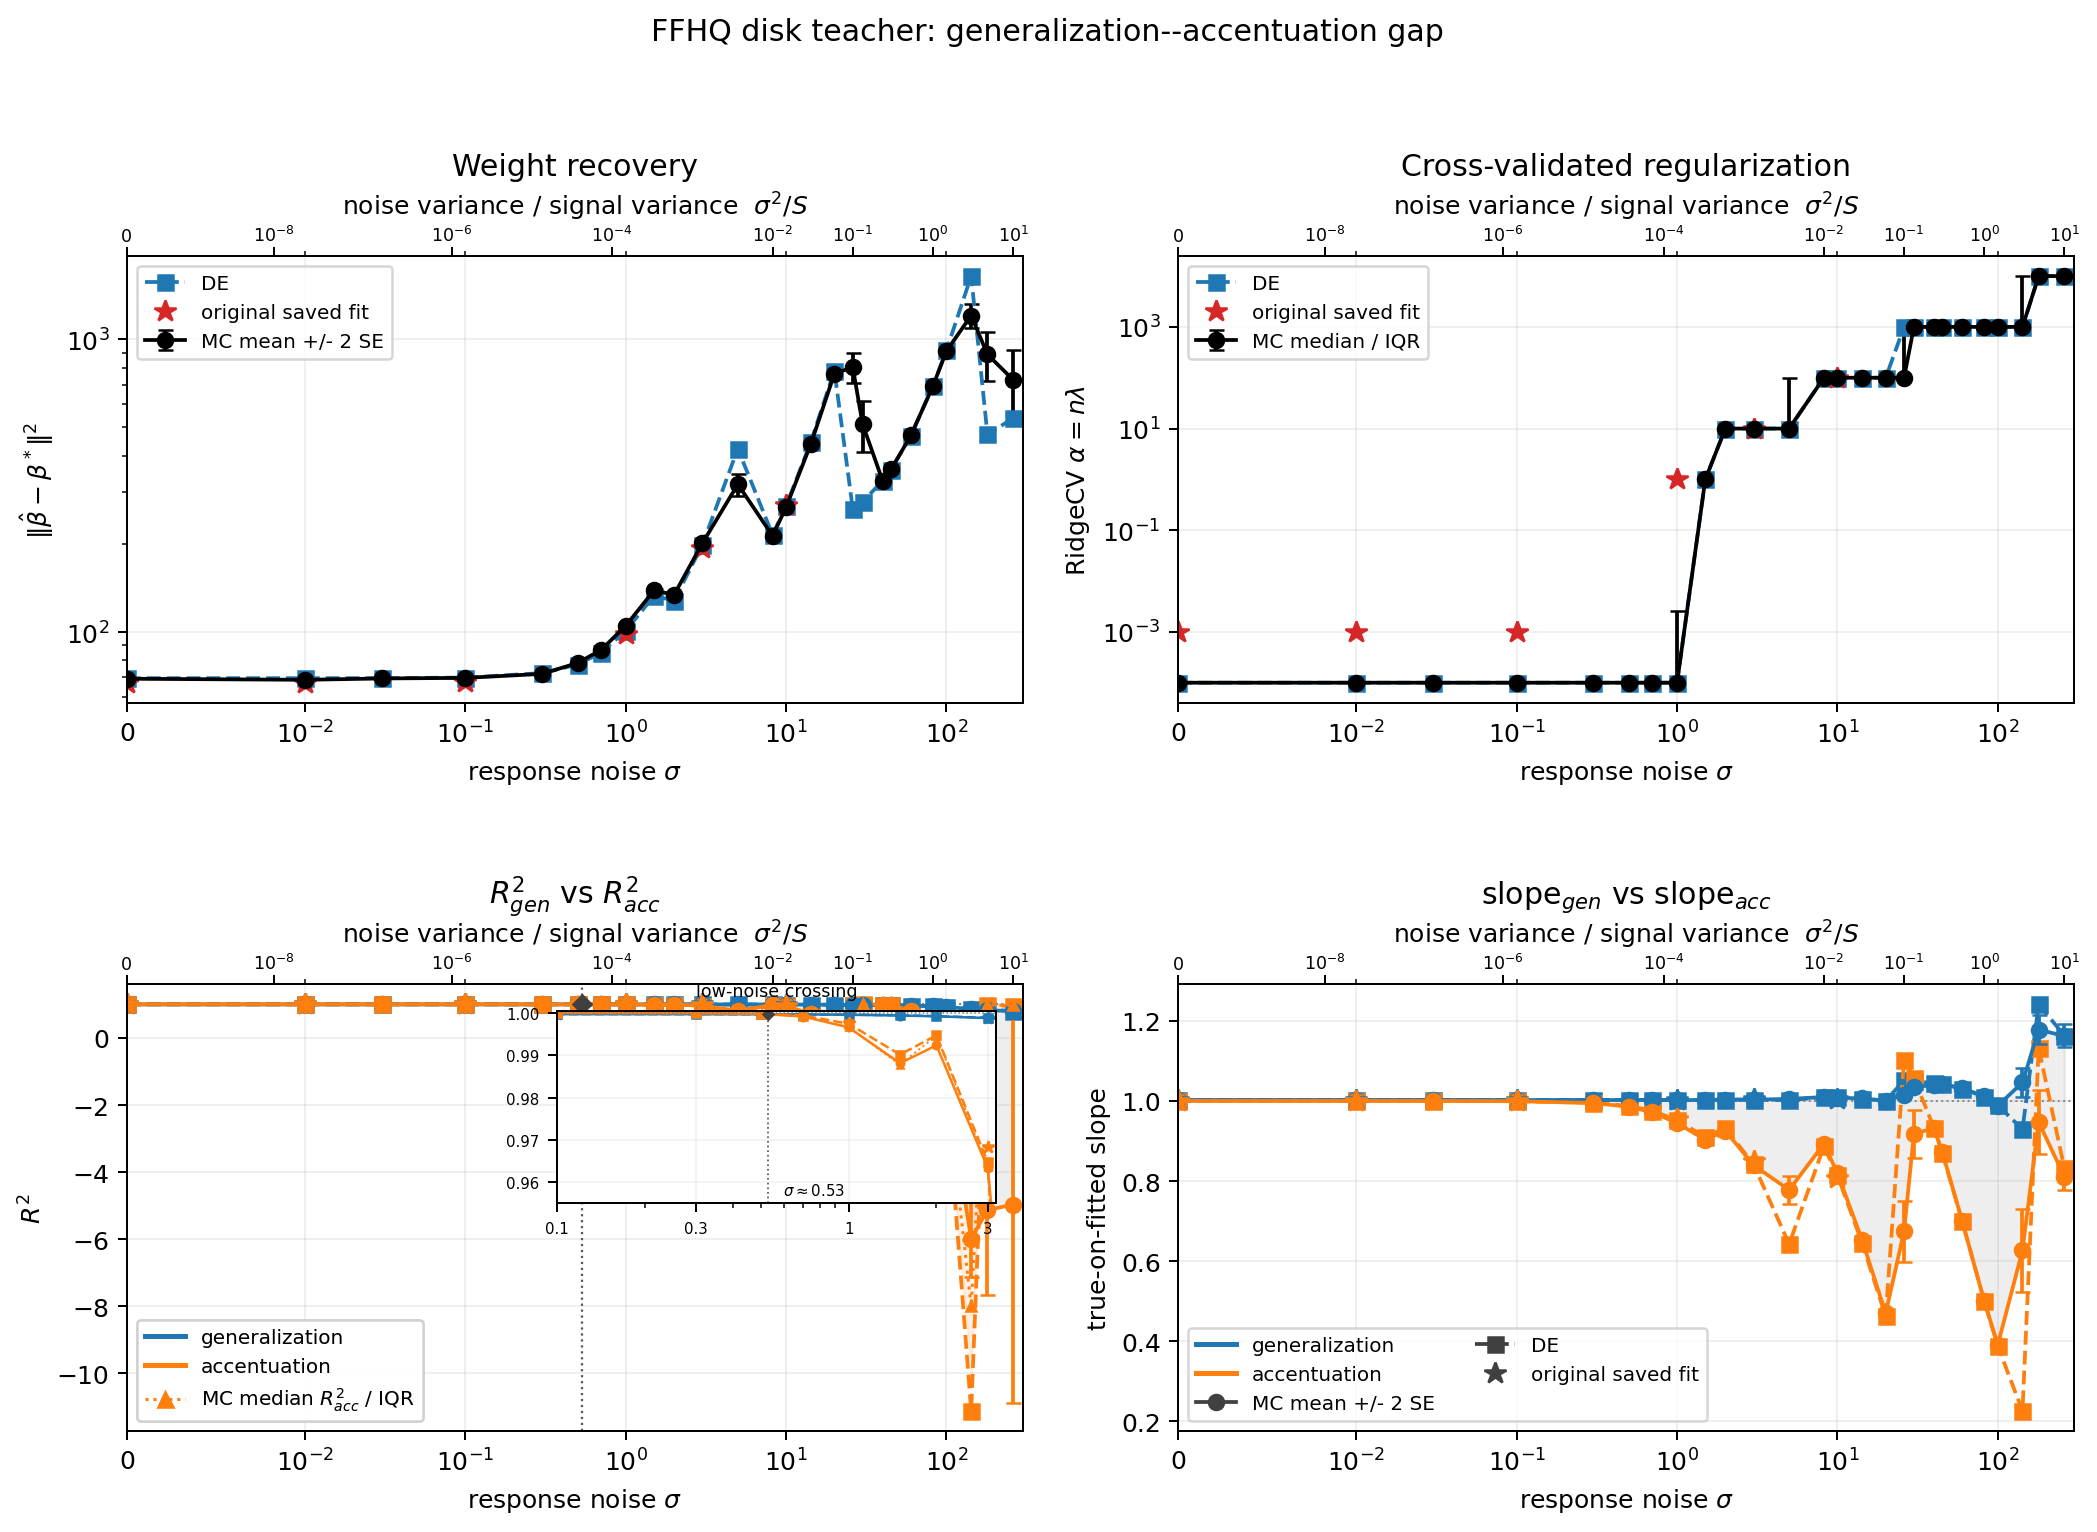
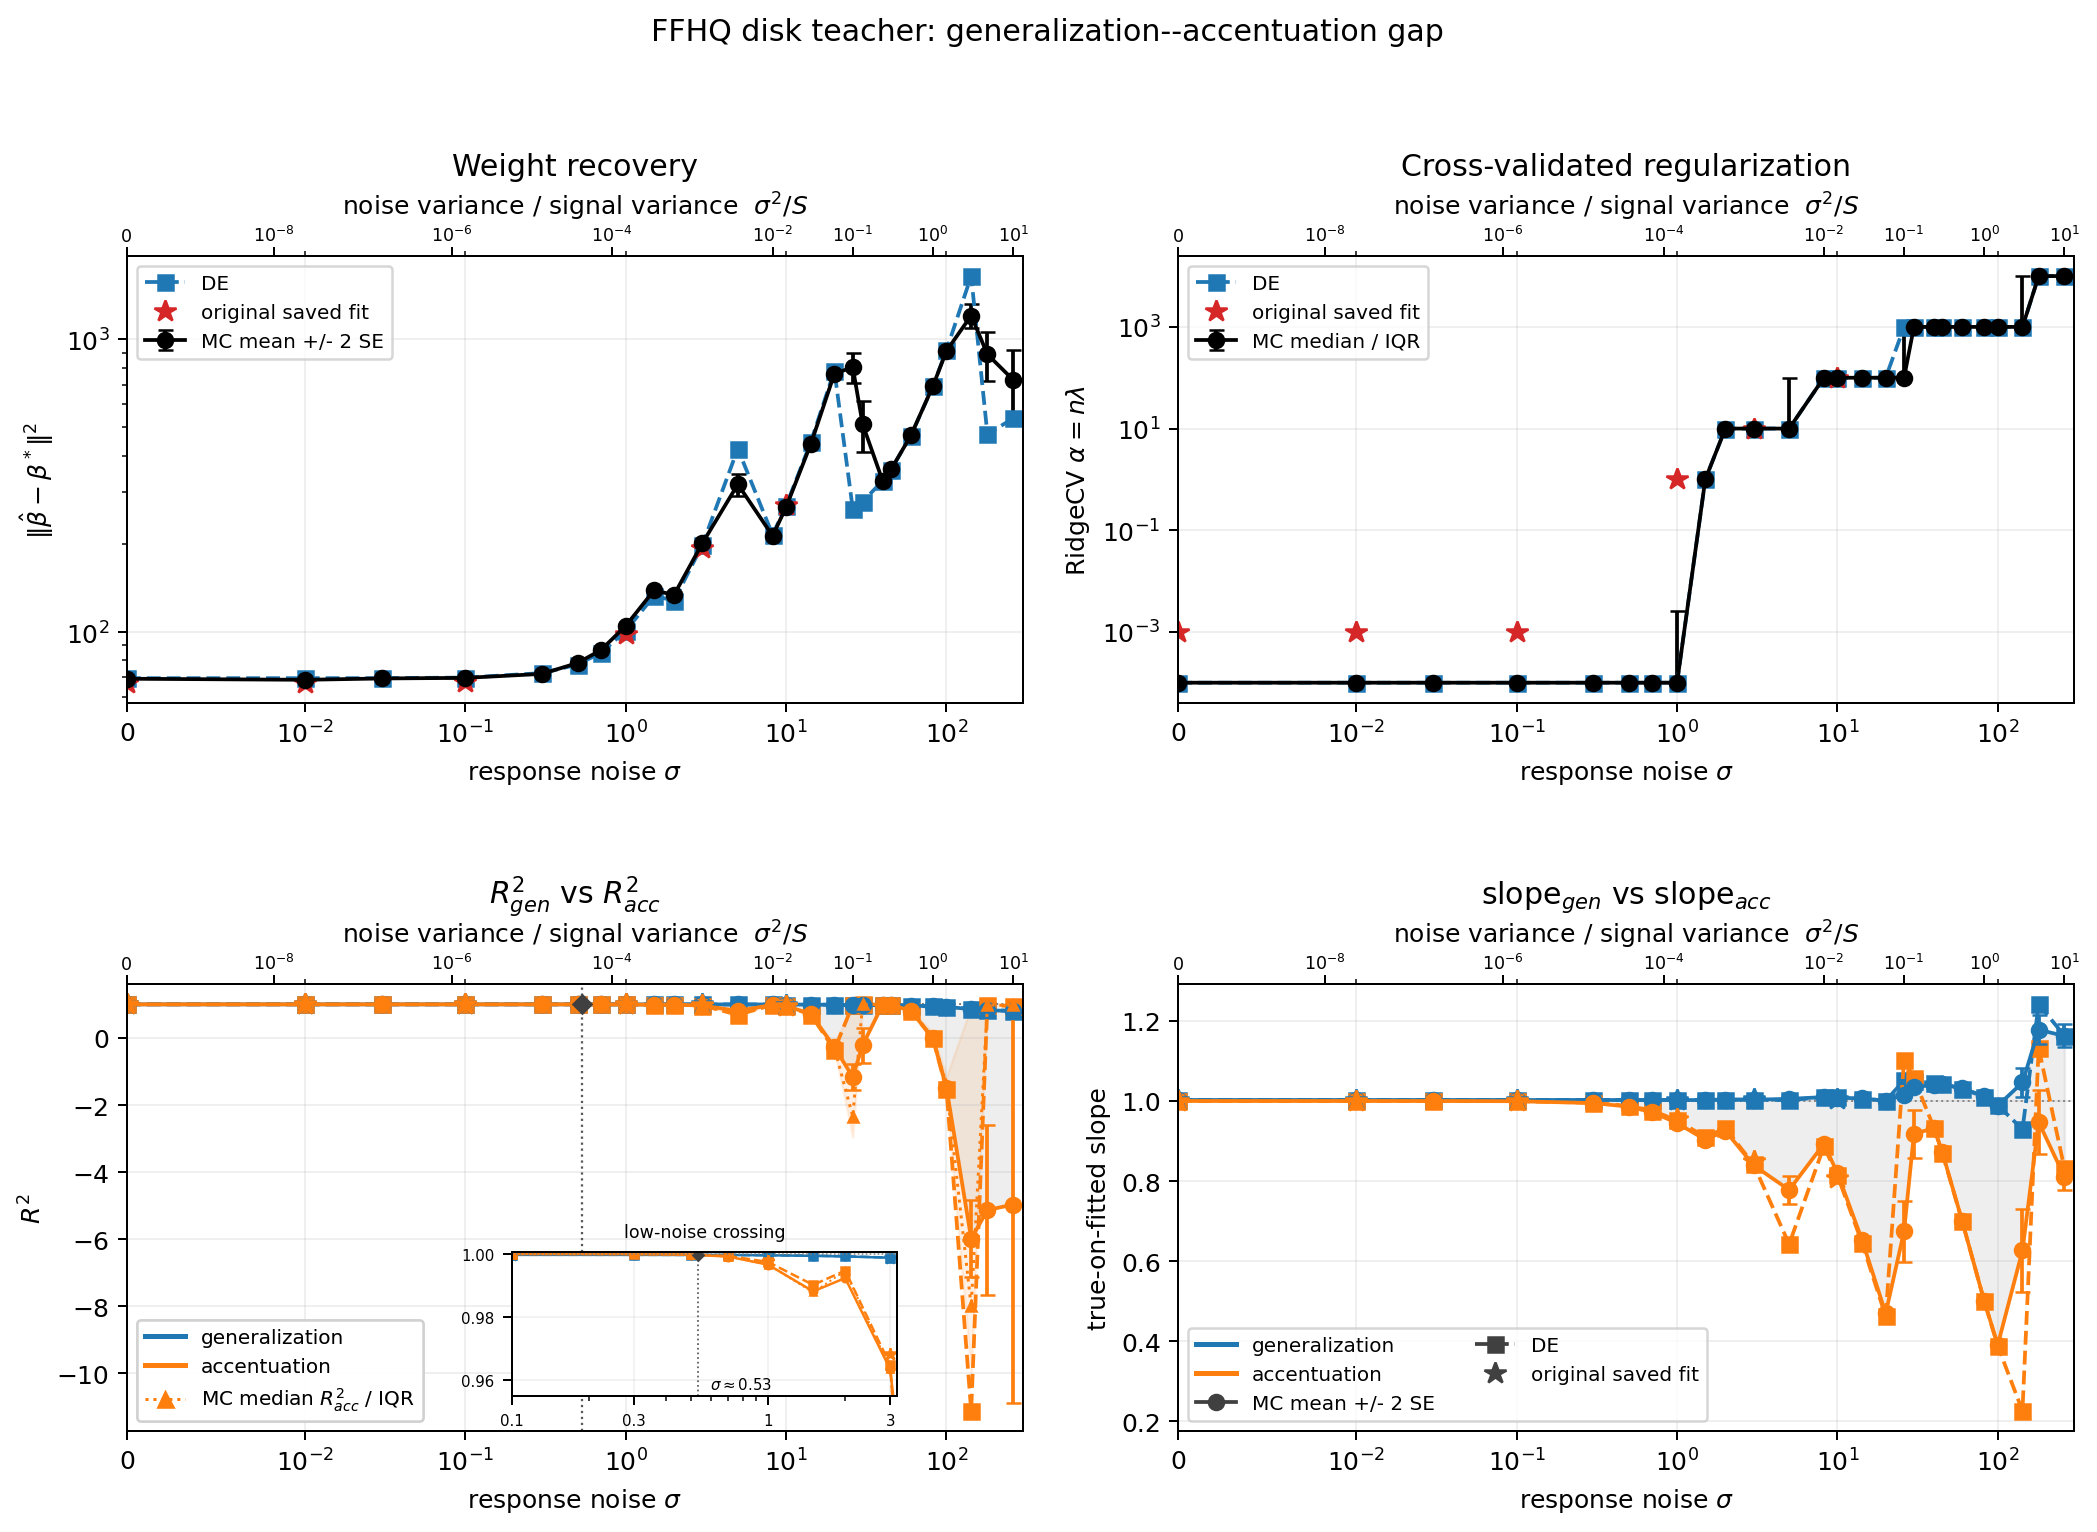
Move FFHQ R2 inset away from curves

Changed region(s): [[0.248, 0.6443, 0.4959, 0.7977], [0.248, 0.767, 0.434, 0.9204], [0.341, 0.8897, 0.372, 0.9204]]

diff --git a/scripts/validate_ffhq_disk_teacher.py b/scripts/validate_ffhq_disk_teacher.py
@@ -656,9 +656,10 @@ def plot_gen_acc_comparison(rows: list[dict[str, object]]) -> None:
         axes[2].axvline(crossing_x, color='0.35', lw=0.9, ls=':')
         axes[2].plot(crossing_x, crossing_y, 'D', color='0.25', ms=5, zorder=5)
 
-    # The full high-noise range sends R²_acc far below zero.  Retain that main
-    # axis while adding a low-noise inset where the first crossing is legible.
-    inset = axes[2].inset_axes([0.48, 0.51, 0.49, 0.43])
+    # The full high-noise range sends R²_acc far below zero.  Put the low-noise
+    # zoom in the otherwise empty negative-R² region so it does not hide the
+    # main curves near R²=1.
+    inset = axes[2].inset_axes([0.43, 0.08, 0.43, 0.32])
     for path_name in ['gen', 'acc']:
         color = path_colors[path_name]
         mc_key = f'mc_r2_{path_name}'
